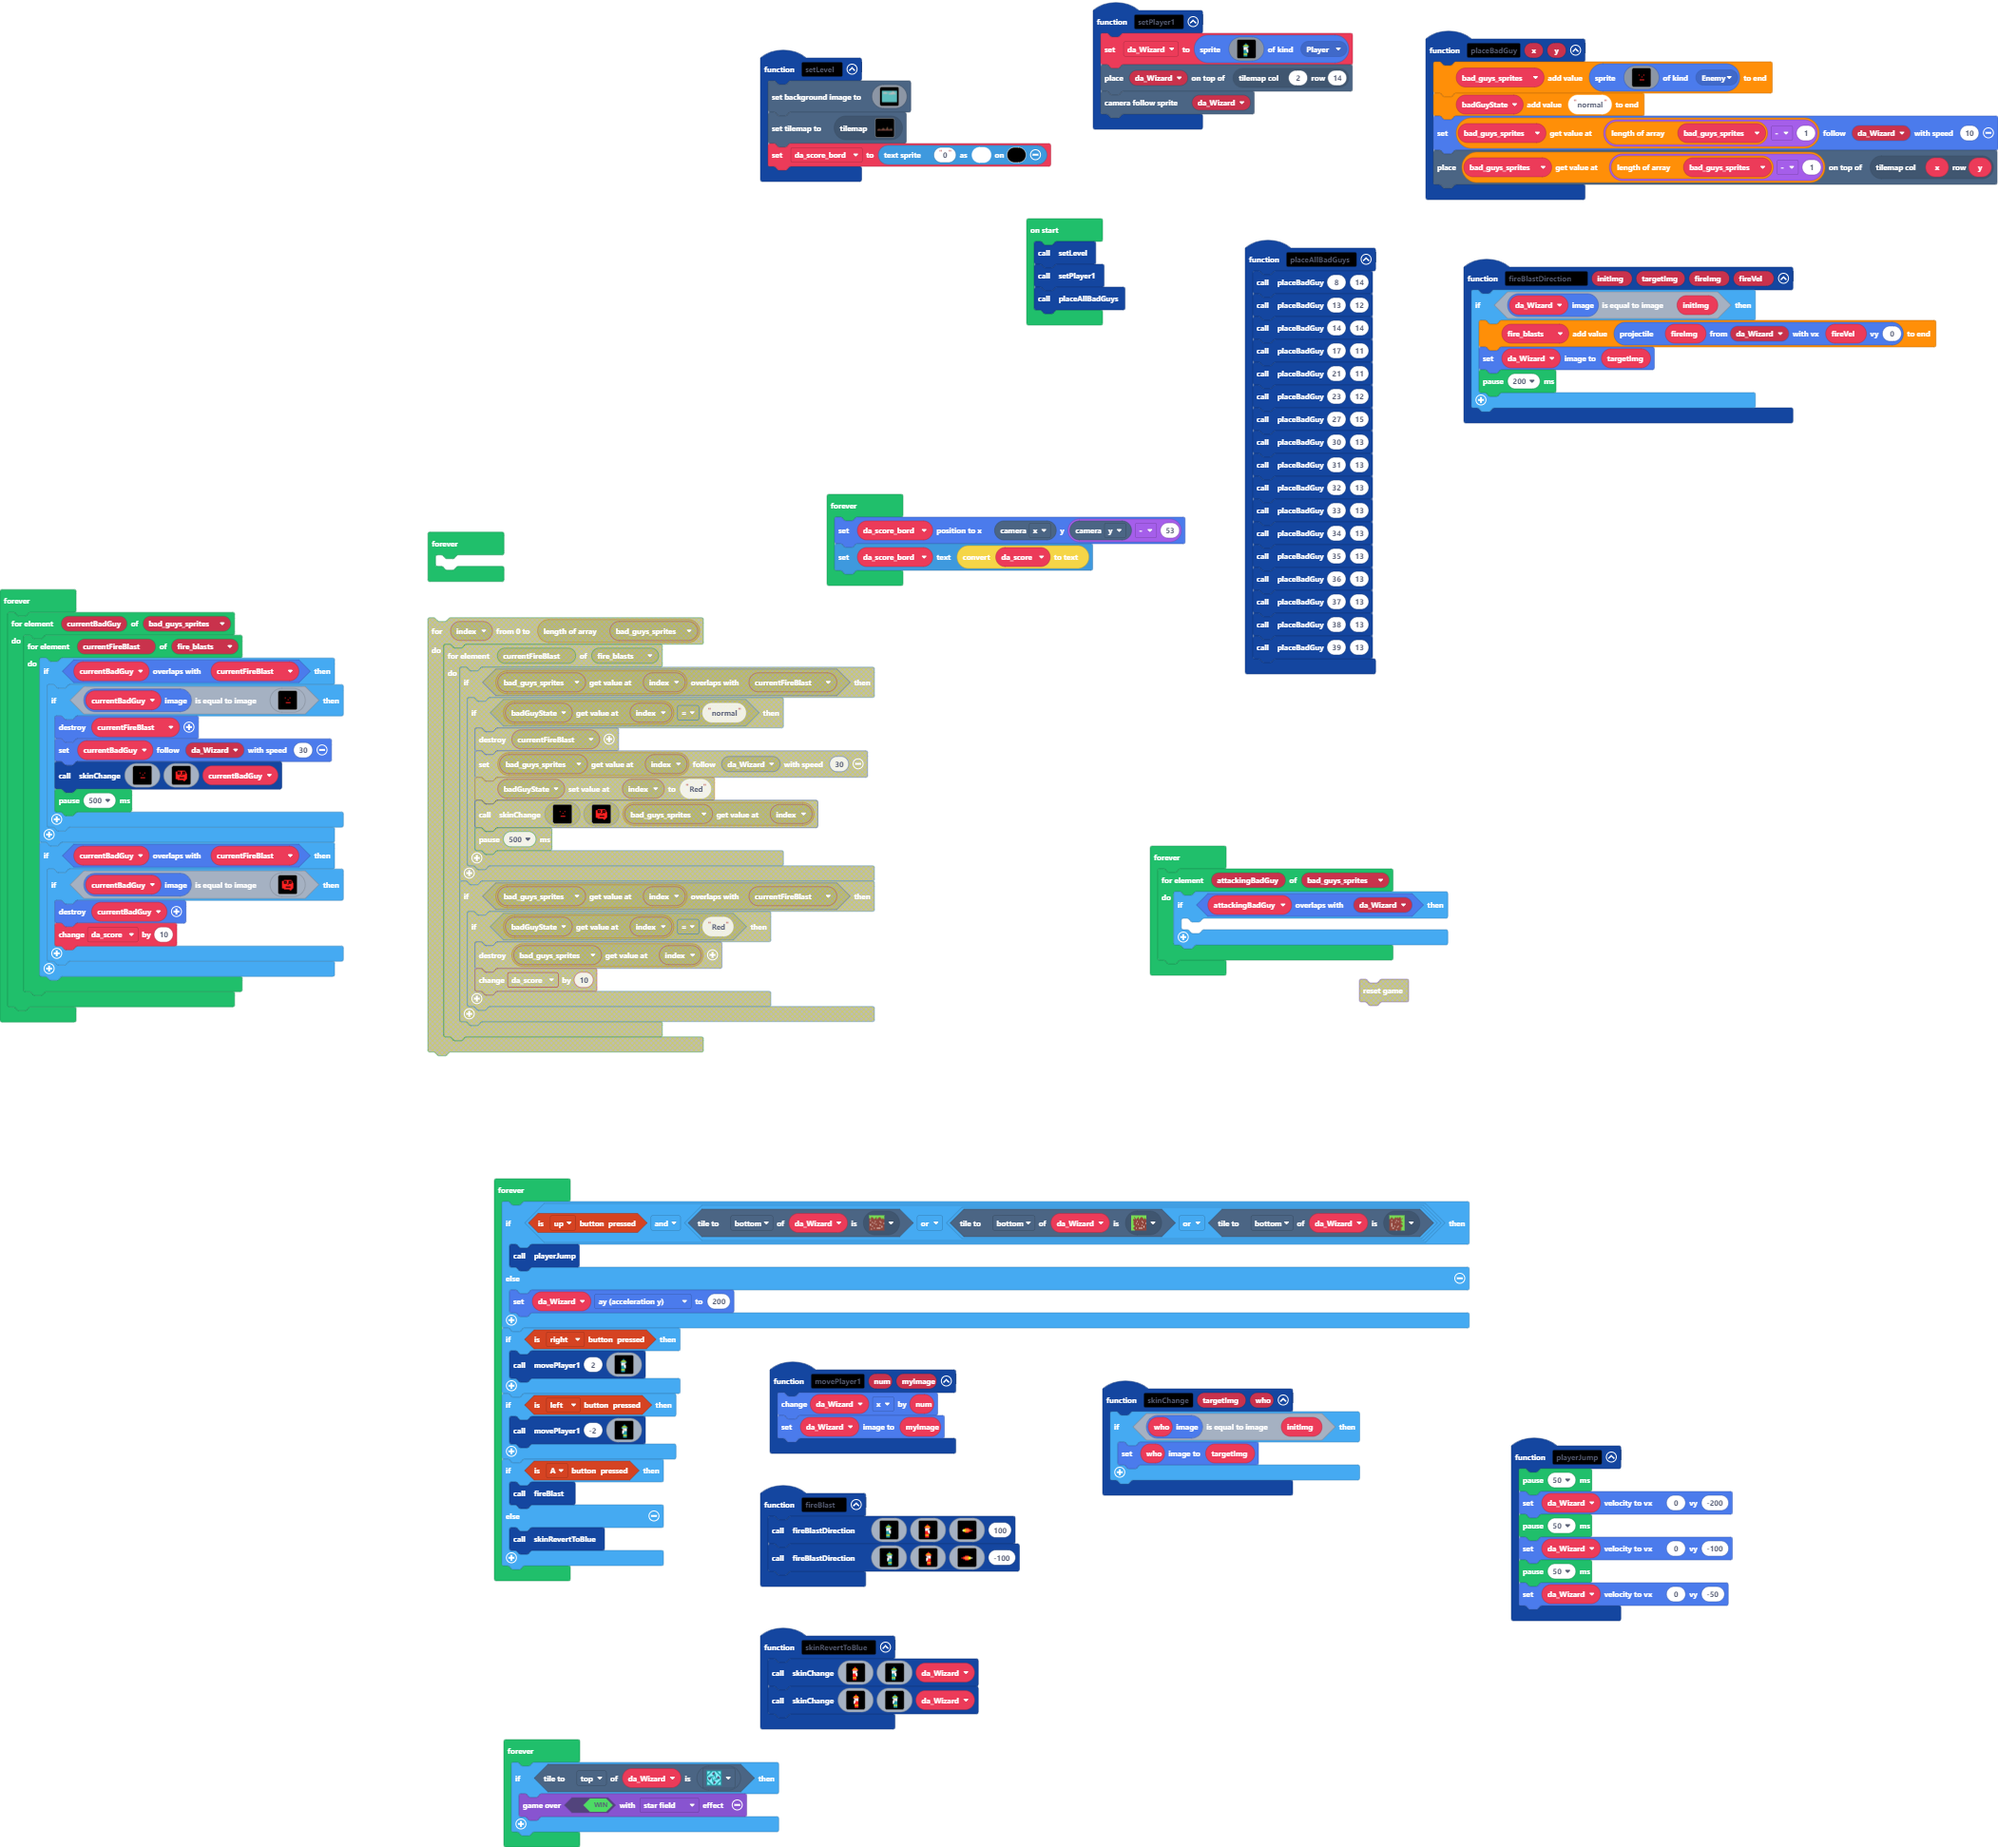
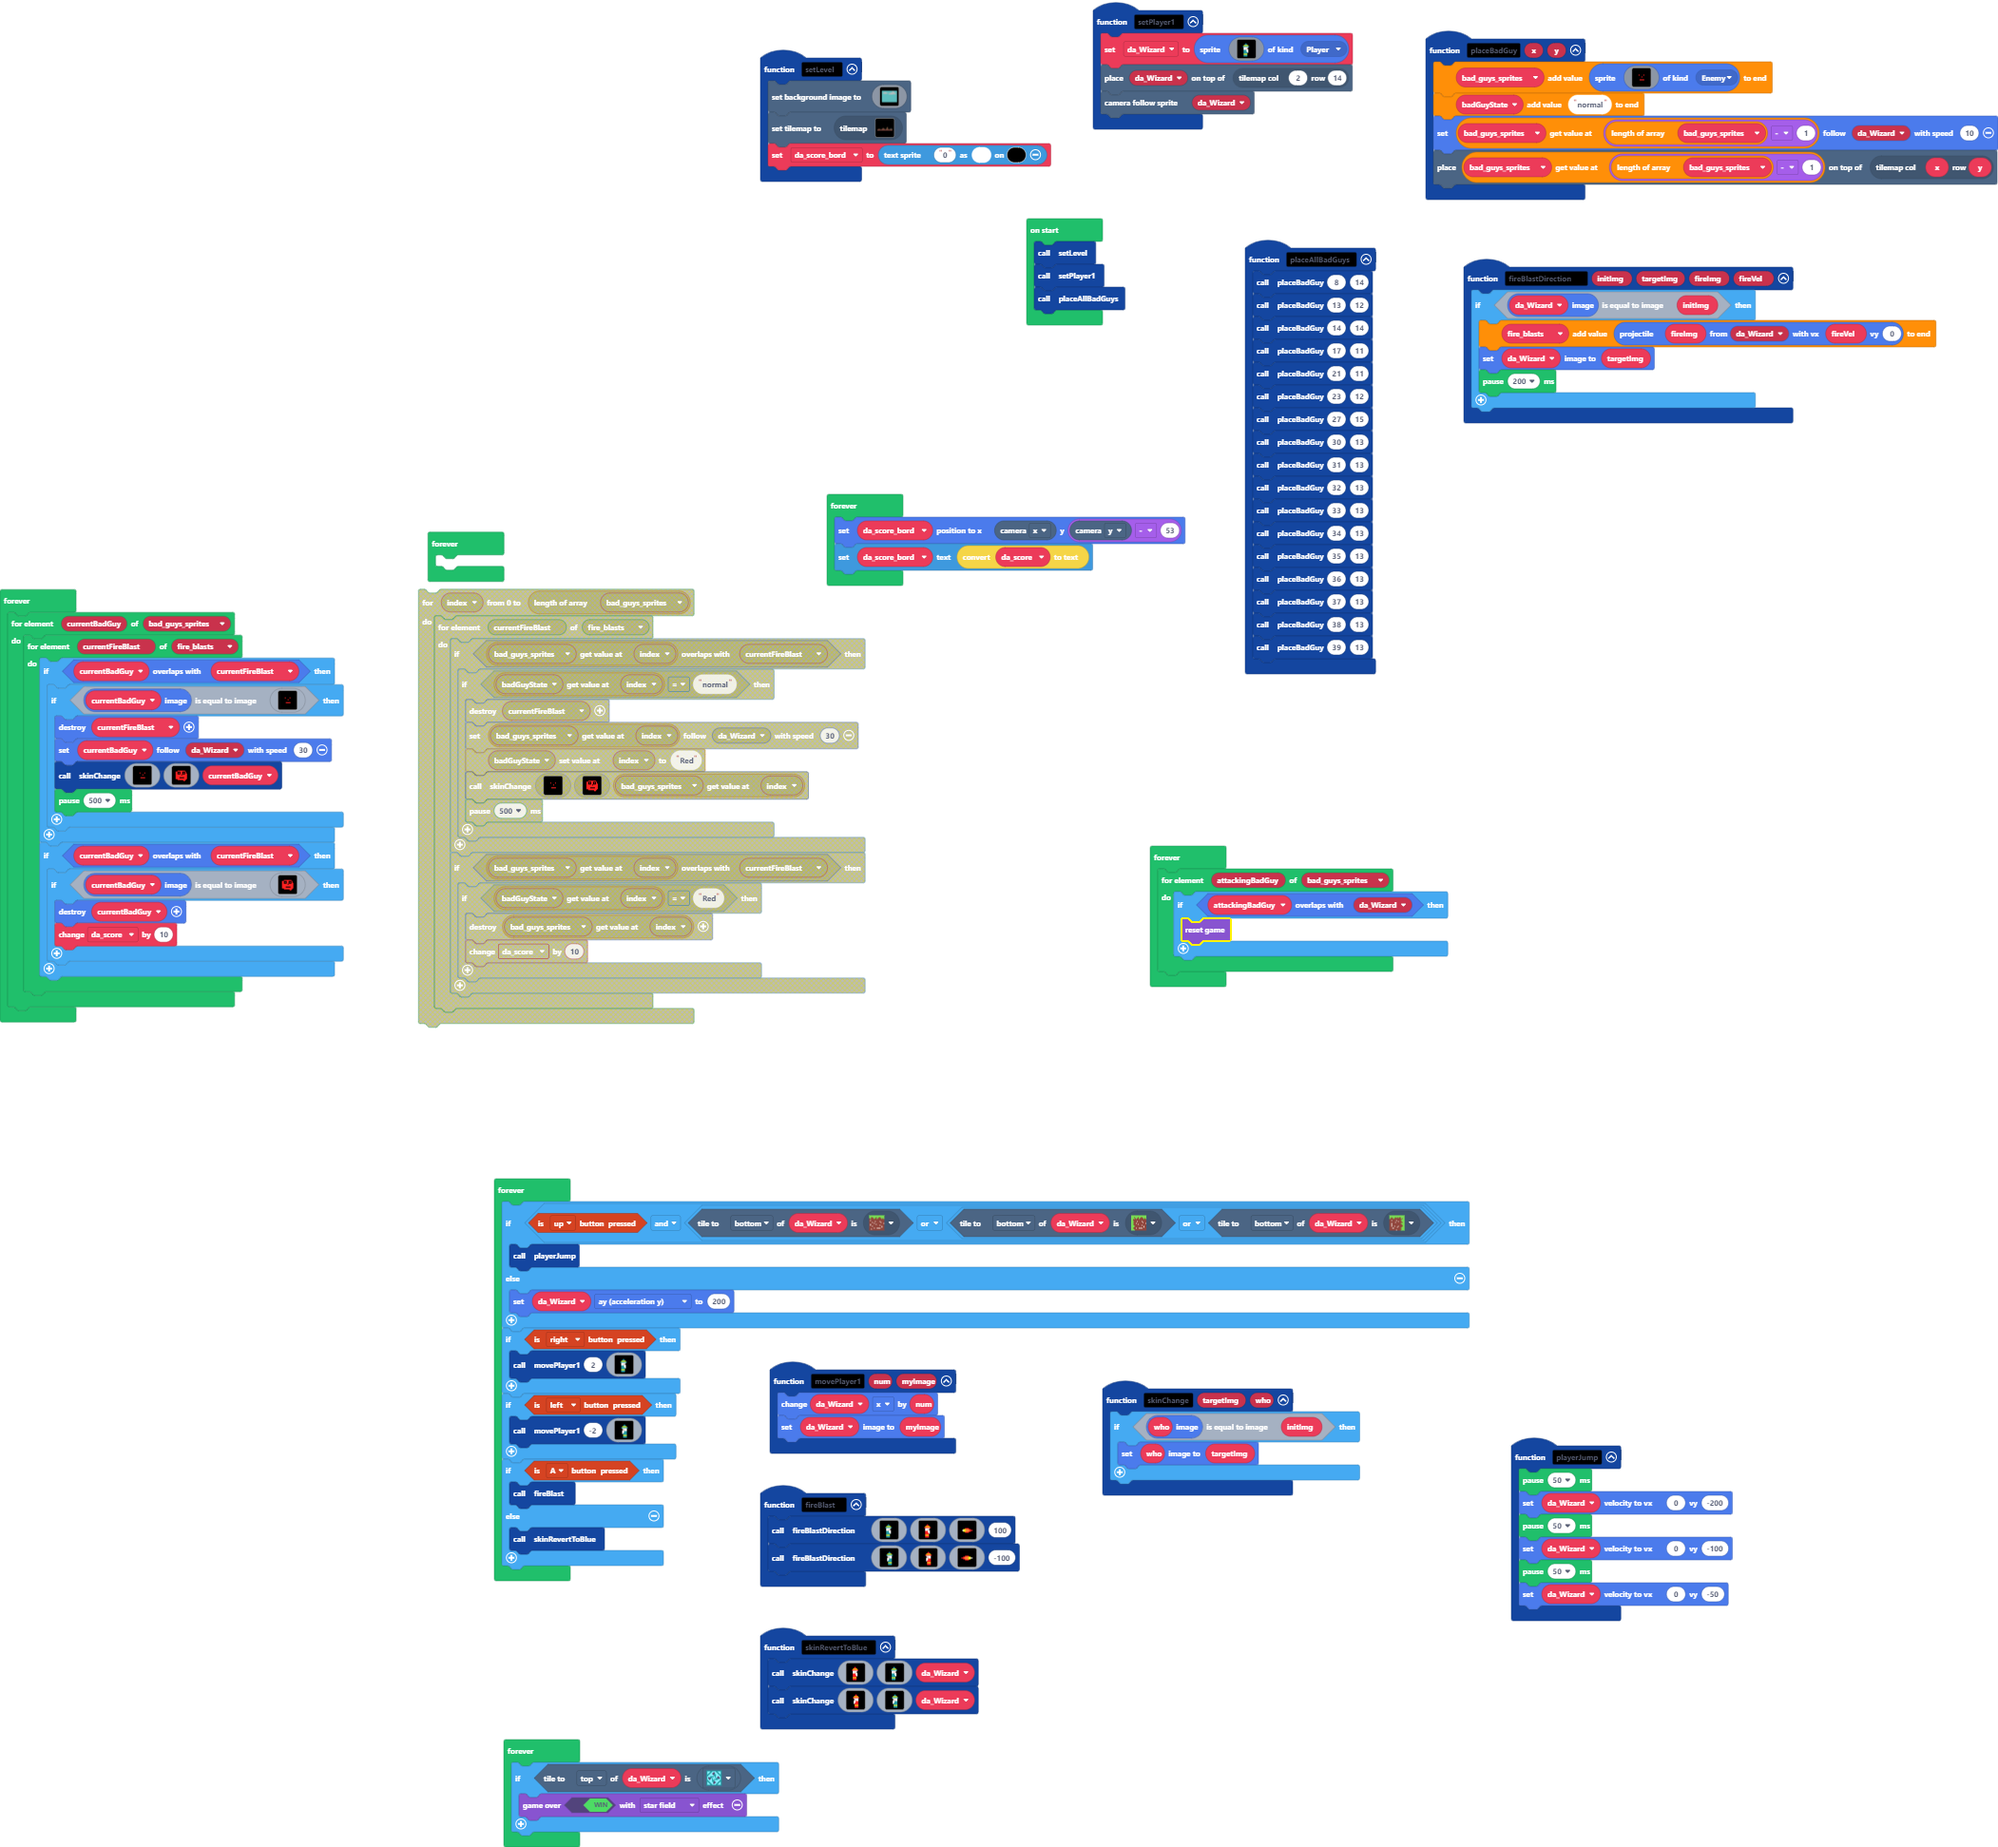
Update main.blocks, main.ts

Changed region(s): [[0.1855, 0.3088, 0.4638, 0.5867], [0.5875, 0.4941, 0.7422, 0.5558]]

diff --git a/main.ts b/main.ts
@@ -104,7 +104,7 @@ forever(function () {
 forever(function () {
     for (let attackingBadGuy of bad_guys_sprites) {
         if (attackingBadGuy.overlapsWith(da_Wizard)) {
-        	
+            game.reset()
         }
     }
 })
